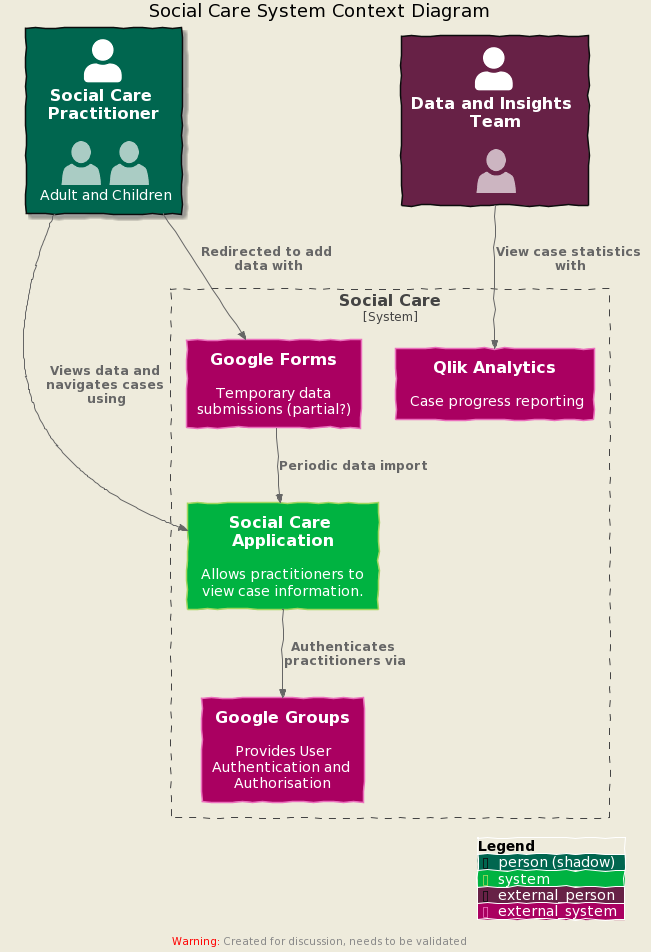
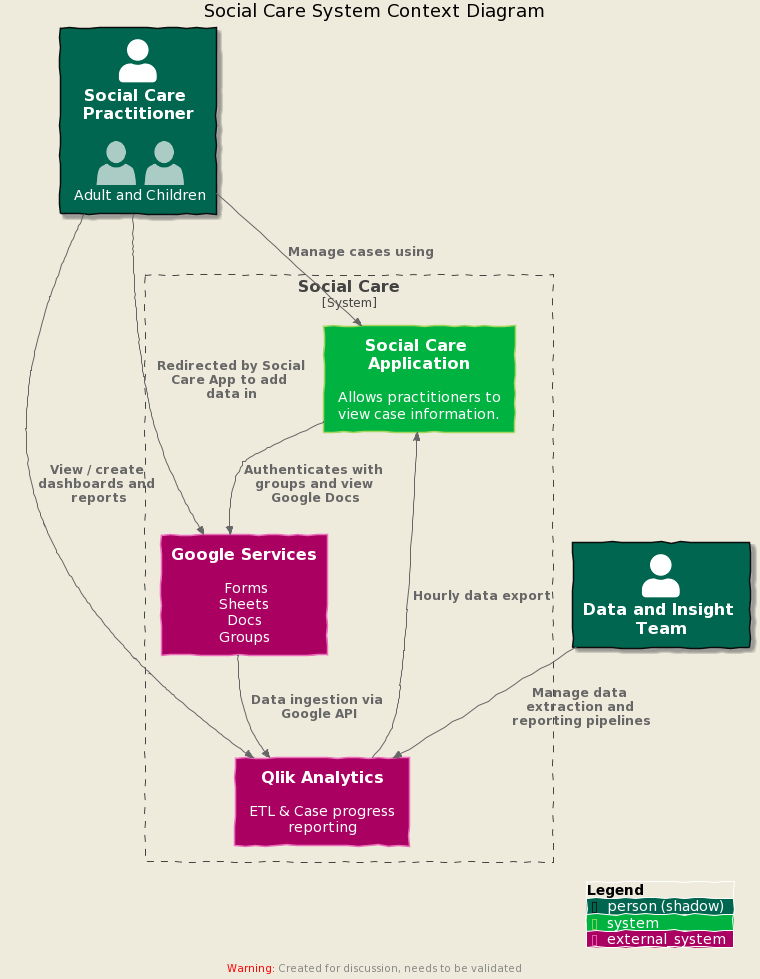
Elaborated Context and Container Diagrams (#6)
Update changes from:

- Luca Lischetti
- Tuomo Karki
- Daro Clark

diff --git a/README.md b/README.md
@@ -4,13 +4,13 @@ This repository is a "central landing zone" to document and share the architectu
 
 ## Related Repositories
 
-| Name                                                                                                     | Description                                                              |
-|----------------------------------------------------------------------------------------------------------|--------------------------------------------------------------------------|
-| [API-Playbook-v2-beta](https://github.com/LBHackney-IT/API-Playbook-v2-beta)                             | API design Guidance                                                      |
-| [Hackney AWS Infrastructure](https://github.com/LBHackney-IT/infrastructure)                             | [IaC](https://en.wikipedia.org/wiki/Infrastructure_as_code) of AWS infra |
-| [LBH Social Care](https://github.com/LBHackney-IT/lbh-social-care)                                       | Front End                                                                |
-| [Social Care Case Viewer API](https://github.com/LBHackney-IT/social-care-case-viewer-api)               |                                                                          |
-| [Residents Social Care Platform API](https://github.com/LBHackney-IT/residents-social-care-platform-api) |                                                                          |
+| Name                                                                                                     | Description                                                                       |
+|----------------------------------------------------------------------------------------------------------|-----------------------------------------------------------------------------------|
+| [LBH Social Care](https://github.com/LBHackney-IT/lbh-social-care)                                       | Front end repository                                                              |
+| [Social Care Case Viewer API](https://github.com/LBHackney-IT/social-care-case-viewer-api)               |                                                                                   |
+| [Residents Social Care Platform API](https://github.com/LBHackney-IT/residents-social-care-platform-api) |                                                                                   |
+| [Hackney AWS Infrastructure](https://github.com/LBHackney-IT/infrastructure)                             | [IaC](https://en.wikipedia.org/wiki/Infrastructure_as_code) of AWS infrastructure |
+| [API-Playbook-v2-beta](https://github.com/LBHackney-IT/API-Playbook-v2-beta)                             | API design Guidance                                                               |
 
 ## Context Diagram
 
@@ -23,7 +23,6 @@ The [context diagram](https://c4model.com/#SystemContextDiagram) shows the highe
 The [container diagram](https://c4model.com/#ContainerDiagram) shows the interacting systems within the Social Care system.
 
 ![System container Diagram](images/system-container.png)
-
 
 ## Architecture Decision Records
 
